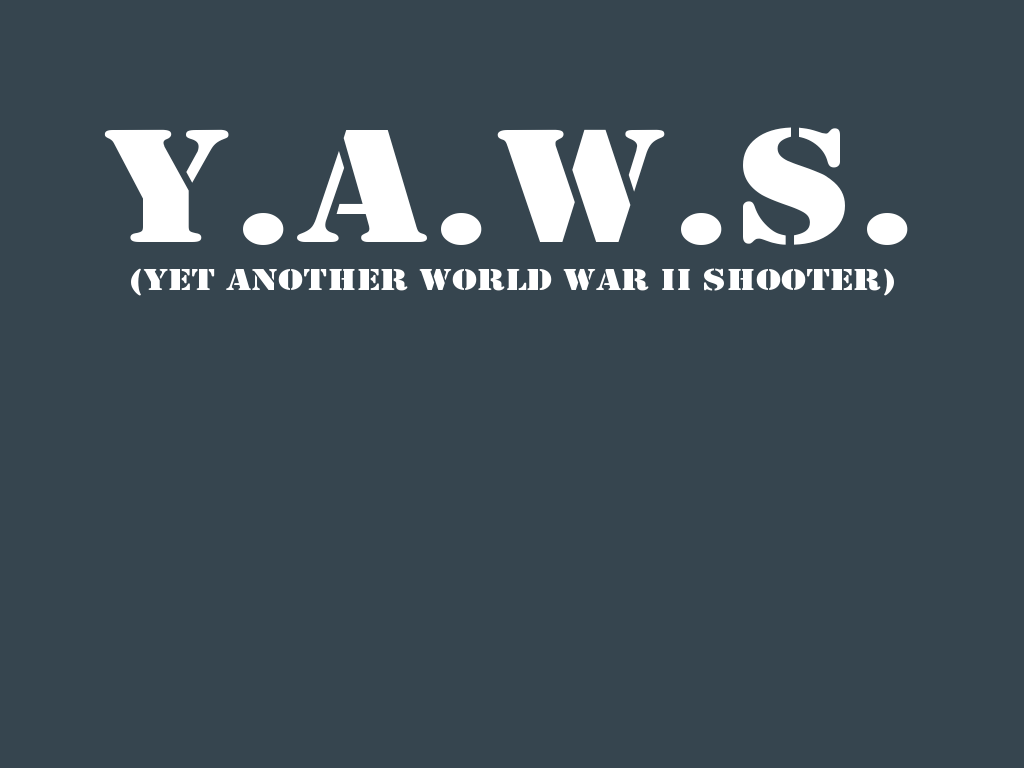
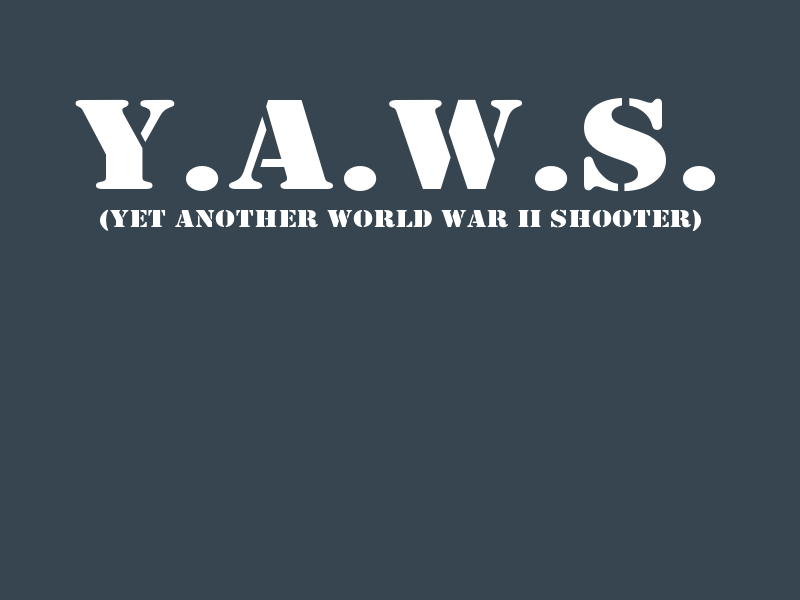
Scale down to 800x600

Changed region(s): [[0.0938, 0.15, 0.9062, 0.39], [0.5, 0.15, 0.6562, 0.3], [0.3438, 0.15, 0.375, 0.18]]

diff --git a/mainMenu.js b/mainMenu.js
@@ -16,10 +16,10 @@ BasicGame.MainMenu.prototype = {
 
     this.add.sprite(0, 0, 'titlepage');
 
-    this.loadingText = this.add.text(510, 520, "Press Z or tap/click game to start", { font: "24px monospace", fill: "#fff" });
+    this.loadingText = this.add.text(400, 380, "Press Z or tap/click game to start", { font: "20px monospace", fill: "#fff" });
     this.loadingText.anchor.setTo(0.5, 0.5);
-    this.add.text(510, 680, "image assets Copyright (c) 2002 Ari Feldman", { font: "16px monospace", fill: "#fff", align: "center"}).anchor.setTo(0.5, 0.5);
-    this.add.text(510, 700, "sound assets Copyright (c) 2012 - 2013 Devin Watson", { font: "16px monospace", fill: "#fff", align: "center"}).anchor.setTo(0.5, 0.5);
+    this.add.text(400, 510, "image assets Copyright (c) 2002 Ari Feldman", { font: "12px monospace", fill: "#fff", align: "center"}).anchor.setTo(0.5, 0.5);
+    this.add.text(400, 525, "sound assets Copyright (c) 2012 - 2013 Devin Watson", { font: "12px monospace", fill: "#fff", align: "center"}).anchor.setTo(0.5, 0.5);
 
   },
 

diff --git a/boot.js b/boot.js
@@ -23,7 +23,6 @@ BasicGame.Boot.prototype = {
 
     if (this.game.device.desktop) {
       //  If you have any desktop specific settings, they can go in here
-      this.scale.pageAlignHorizontally = true;
     } else {
       //  Same goes for mobile settings.
       //  In this case we're saying "scale the game, no lower than 480x260 and no higher than 1024x768"
@@ -33,9 +32,10 @@ BasicGame.Boot.prototype = {
       this.scale.maxWidth = 1024;
       this.scale.maxHeight = 768;
       this.scale.forceLandscape = true;
-      this.scale.pageAlignHorizontally = true;
-      this.scale.setScreenSize(true);
     }
+    this.scale.pageAlignHorizontally = true;
+    this.scale.pageAlignVertically = true;
+    this.scale.setScreenSize(true);
 
     //  By this point the preloader assets have loaded to the cache, we've set the game settings
     //  So now let's start the real preloader going

diff --git a/preloader.js b/preloader.js
@@ -15,8 +15,8 @@ BasicGame.Preloader.prototype = {
     //  Show the loading progress bar asset we loaded in boot.js
     this.stage.backgroundColor = '#2d2d2d';
 
-    this.preloadBar = this.add.sprite(412, 400, 'preloaderBar');
-    this.add.text(510, 360, "Loading...", { font: "32px monospace", fill: "#fff" }).anchor.setTo(0.5, 0.5);
+    this.preloadBar = this.add.sprite(300, 300, 'preloaderBar');
+    this.add.text(400, 270, "Loading...", { font: "32px monospace", fill: "#fff" }).anchor.setTo(0.5, 0.5);
 
     //  This sets the preloadBar sprite as a loader sprite.
     //  What that does is automatically crop the sprite from 0 to full-width

diff --git a/app.js b/app.js
@@ -2,7 +2,7 @@ window.onload = function() {
 
   //  Create your Phaser game and inject it into the gameContainer div.
   //  We did it in a window.onload event, but you can do it anywhere (requireJS load, anonymous function, jQuery dom ready, - whatever floats your boat)
-  var game = new Phaser.Game(1024, 768, Phaser.AUTO, 'gameContainer');
+  var game = new Phaser.Game(800, 600, Phaser.AUTO, 'gameContainer');
 
   //  Add the States your game has.
   //  You don't have to do this in the html, it could be done in your Boot state too, but for simplicity I'll keep it here.

diff --git a/game.js b/game.js
@@ -7,7 +7,7 @@ BasicGame.Game.prototype = {
 
   create: function () {
 
-    this.sea = this.add.tileSprite(0, 0, 1024, 768, 'sea');
+    this.sea = this.add.tileSprite(0, 0, 800, 600, 'sea');
 
   },
 
